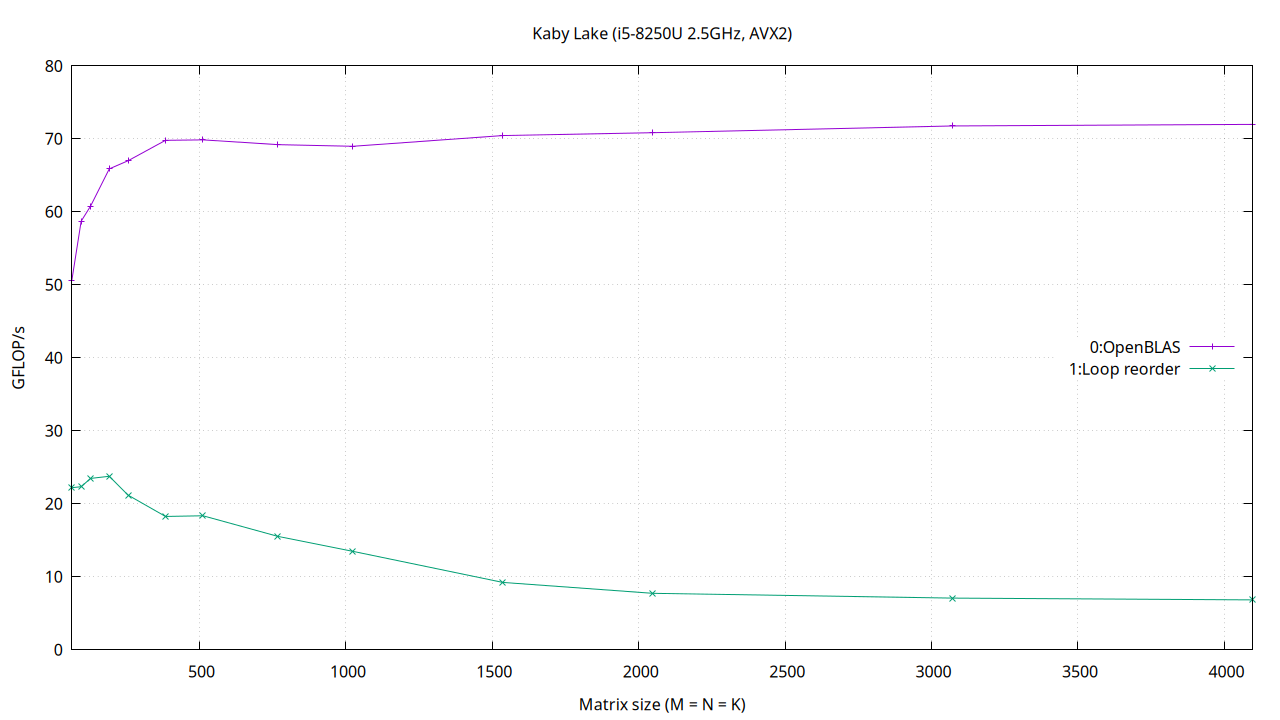
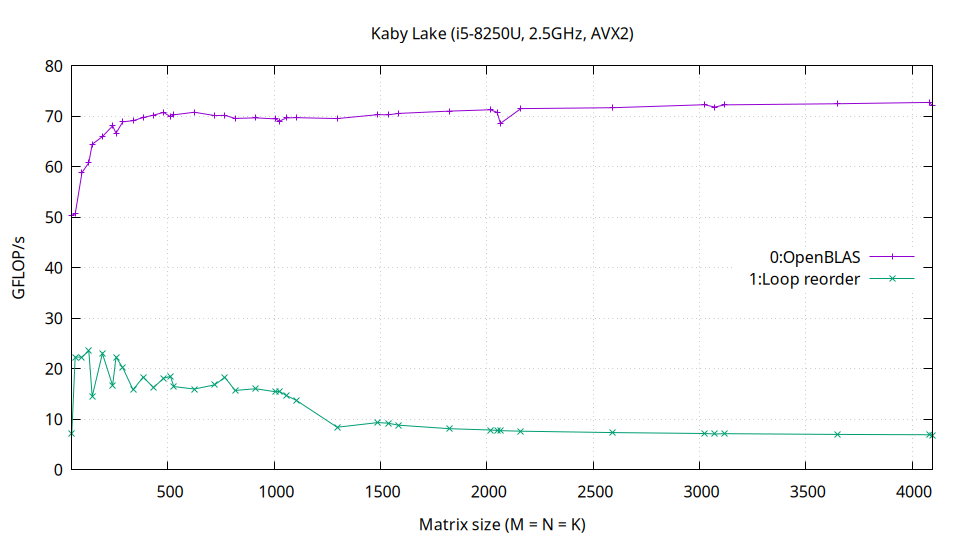
(plot) logarithmic sweep around sentinel points

diff --git a/plot.c b/plot.c
@@ -16,8 +16,11 @@
 #define DATA_FILE "output/sgemm_gflops.dat"
 
 static const int benchmark_sizes[] = {
-    64,  96,  128, 192, 256,  384,  512,
-    768, 1024, 1536, 2048, 3072, 4096,
+    48,   64,   96,   128,  144,  192,  240,  256,
+    288,  336,  384,  432,  480,  512,  528,  624,
+    720,  768,  816,  912,  1008, 1024, 1056, 1104,
+    1296, 1488, 1536, 1584, 1824, 2016, 2048, 2064,
+    2160, 2592, 3024, 3072, 3120, 3648, 4080, 4096,
 };
 
 static const char* kernel_names[MAX_KERNEL_COUNT] = {
@@ -86,7 +89,7 @@ static int generate_plot(int kernel_count) {
     return EXIT_FAILURE;
   }
 
-  fprintf(gnuplot, "set terminal pngcairo size 1280,720\n");
+  fprintf(gnuplot, "set terminal pngcairo size 960,540\n");
   fprintf(gnuplot, "set title 'SGEMM Performance'\n");
   fprintf(gnuplot, "set xlabel 'Matrix size (M = N = K)'\n");
   fprintf(gnuplot, "set ylabel 'GFLOP/s'\n");

diff --git a/README.md b/README.md
@@ -39,6 +39,10 @@ An attempt to beat openBLAS for the single precision GEMM operation, in single-t
 
 The theoretical single-core peak is `2 FMAs/cycle × 2 operations/FMA × 8 floats/FMA × 2.5 GHz = 80 GFLOP/s`.
 
+The varied benchmark sizes include both tile-friendly dimensions and dimensions
+that expose cache-associativity conflicts, making the resulting performance
+dips visible rather than hiding them behind a regular sweep.
+
 **Kernel 1 — Loop reordering:** Reorder the scalar loops to `i-k-j` so each
 value from A is reused while B and C are traversed contiguously.
 
@@ -49,8 +53,10 @@ retain working data and sustain performance as matrix sizes grow.
 
 ![KBL performance through kernel 2](figures/kbl/sgemm_gflops_0_2.png)
 
-**Kernel 3 — Tiled outer product:** Pack `6x16` tiles and compute them with an
-AVX2 FMA microkernel to perform more arithmetic per byte loaded.
+**Kernel 3 — Direct tiled outer product:** Compute row-major matrices directly
+with a `6x16` AVX2 FMA microkernel, without packing temporary tiles. Avoiding
+packing overhead makes it especially fast for small matrices, where it nearly
+matches—and at several sizes beats—OpenBLAS.
 
 ![KBL performance through kernel 3](figures/kbl/sgemm_gflops_0_3.png)
 
@@ -78,8 +84,8 @@ retain working data and sustain performance as matrix sizes grow.
 
 ![SPR performance through kernel 2](figures/spr/sgemm_gflops_0_2.png)
 
-**Kernel 3 — Tiled outer product:** Pack `6x16` tiles and compute them with an
-AVX2 FMA microkernel to perform more arithmetic per byte loaded.
+**Kernel 3 — Direct tiled outer product:** Compute row-major matrices directly
+with a `6x16` AVX2 FMA microkernel, without packing temporary tiles.
 
 ![SPR performance through kernel 3](figures/spr/sgemm_gflops_0_3.png)
 
@@ -98,9 +104,9 @@ together bring performance close to OpenBLAS.
 ![SPR performance through kernel 5](figures/spr/sgemm_gflops_0_5.png)
 
 At large matrix sizes, the final AVX-512 kernel matches OpenBLAS. At small
-matrix sizes it remains slower because OpenBLAS uses a direct-path GEMM that
-skips packing overhead; implementing a direct path is currently outside the
-scope of this repository.
+matrix sizes it remains slower because it always packs, while OpenBLAS selects
+a direct path. Kernel 3 demonstrates direct GEMM, but the AVX-512 kernel does
+not include a direct path.
 
 ## License
 MIT
